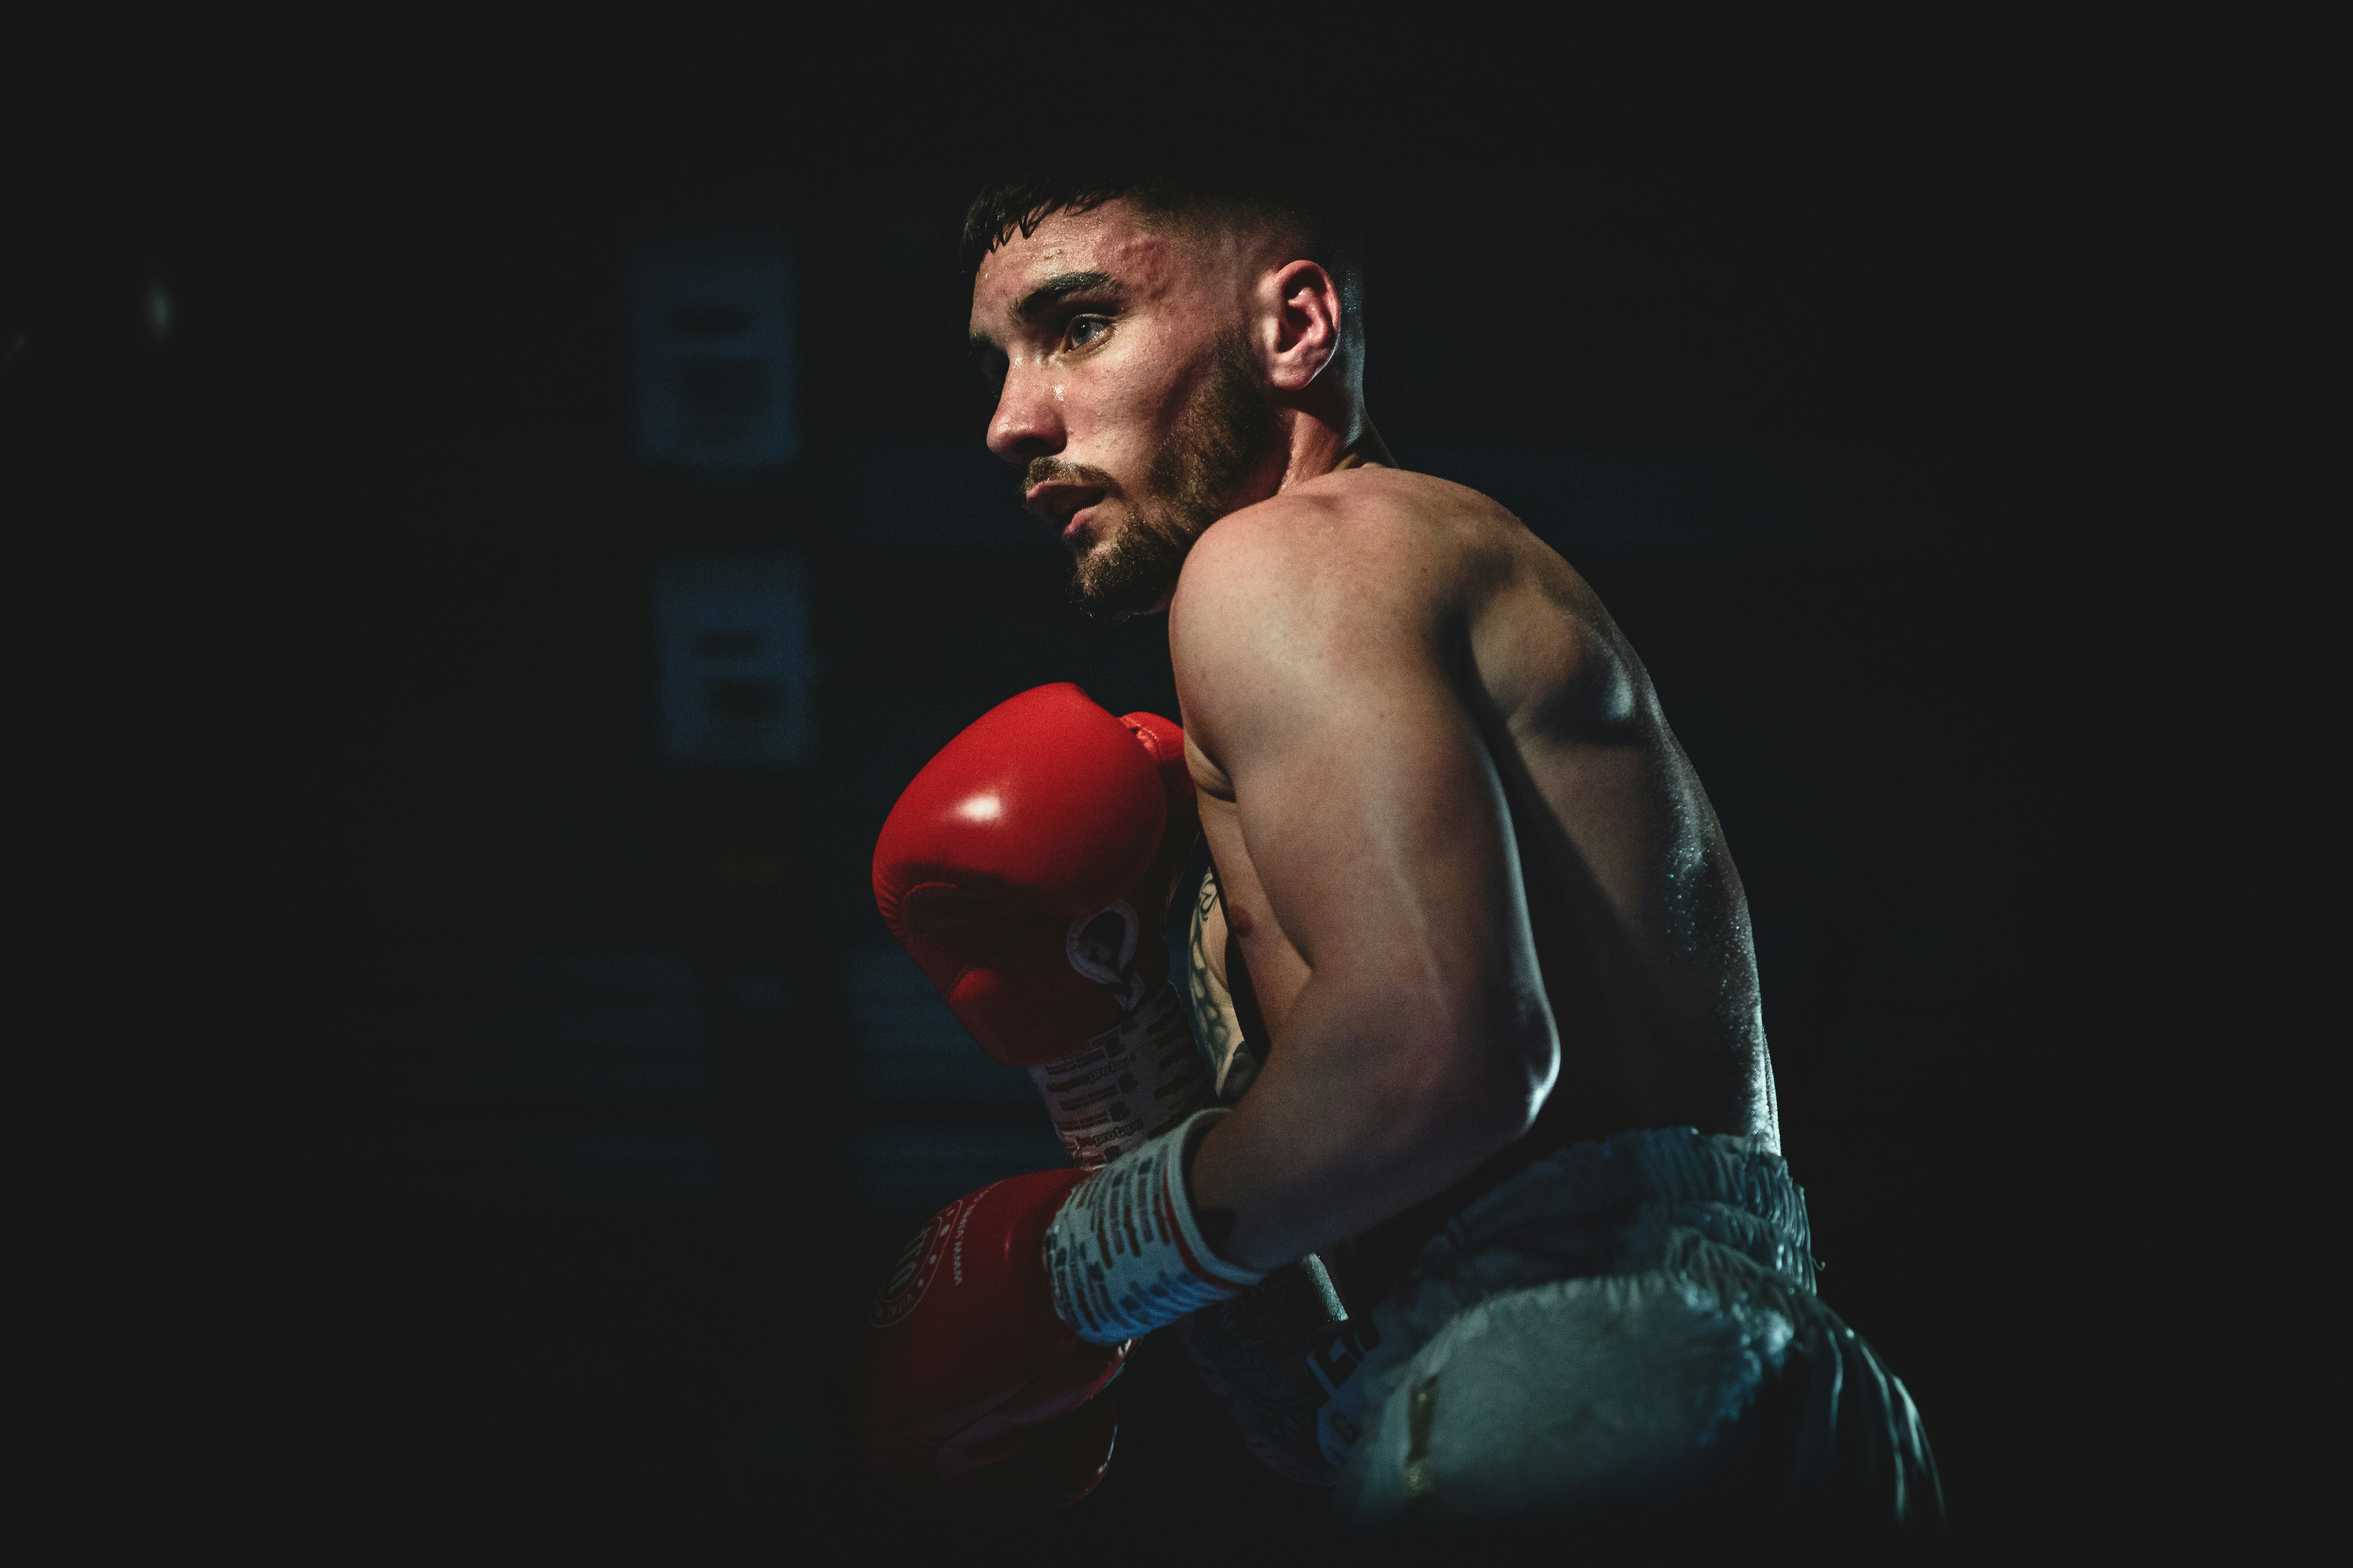
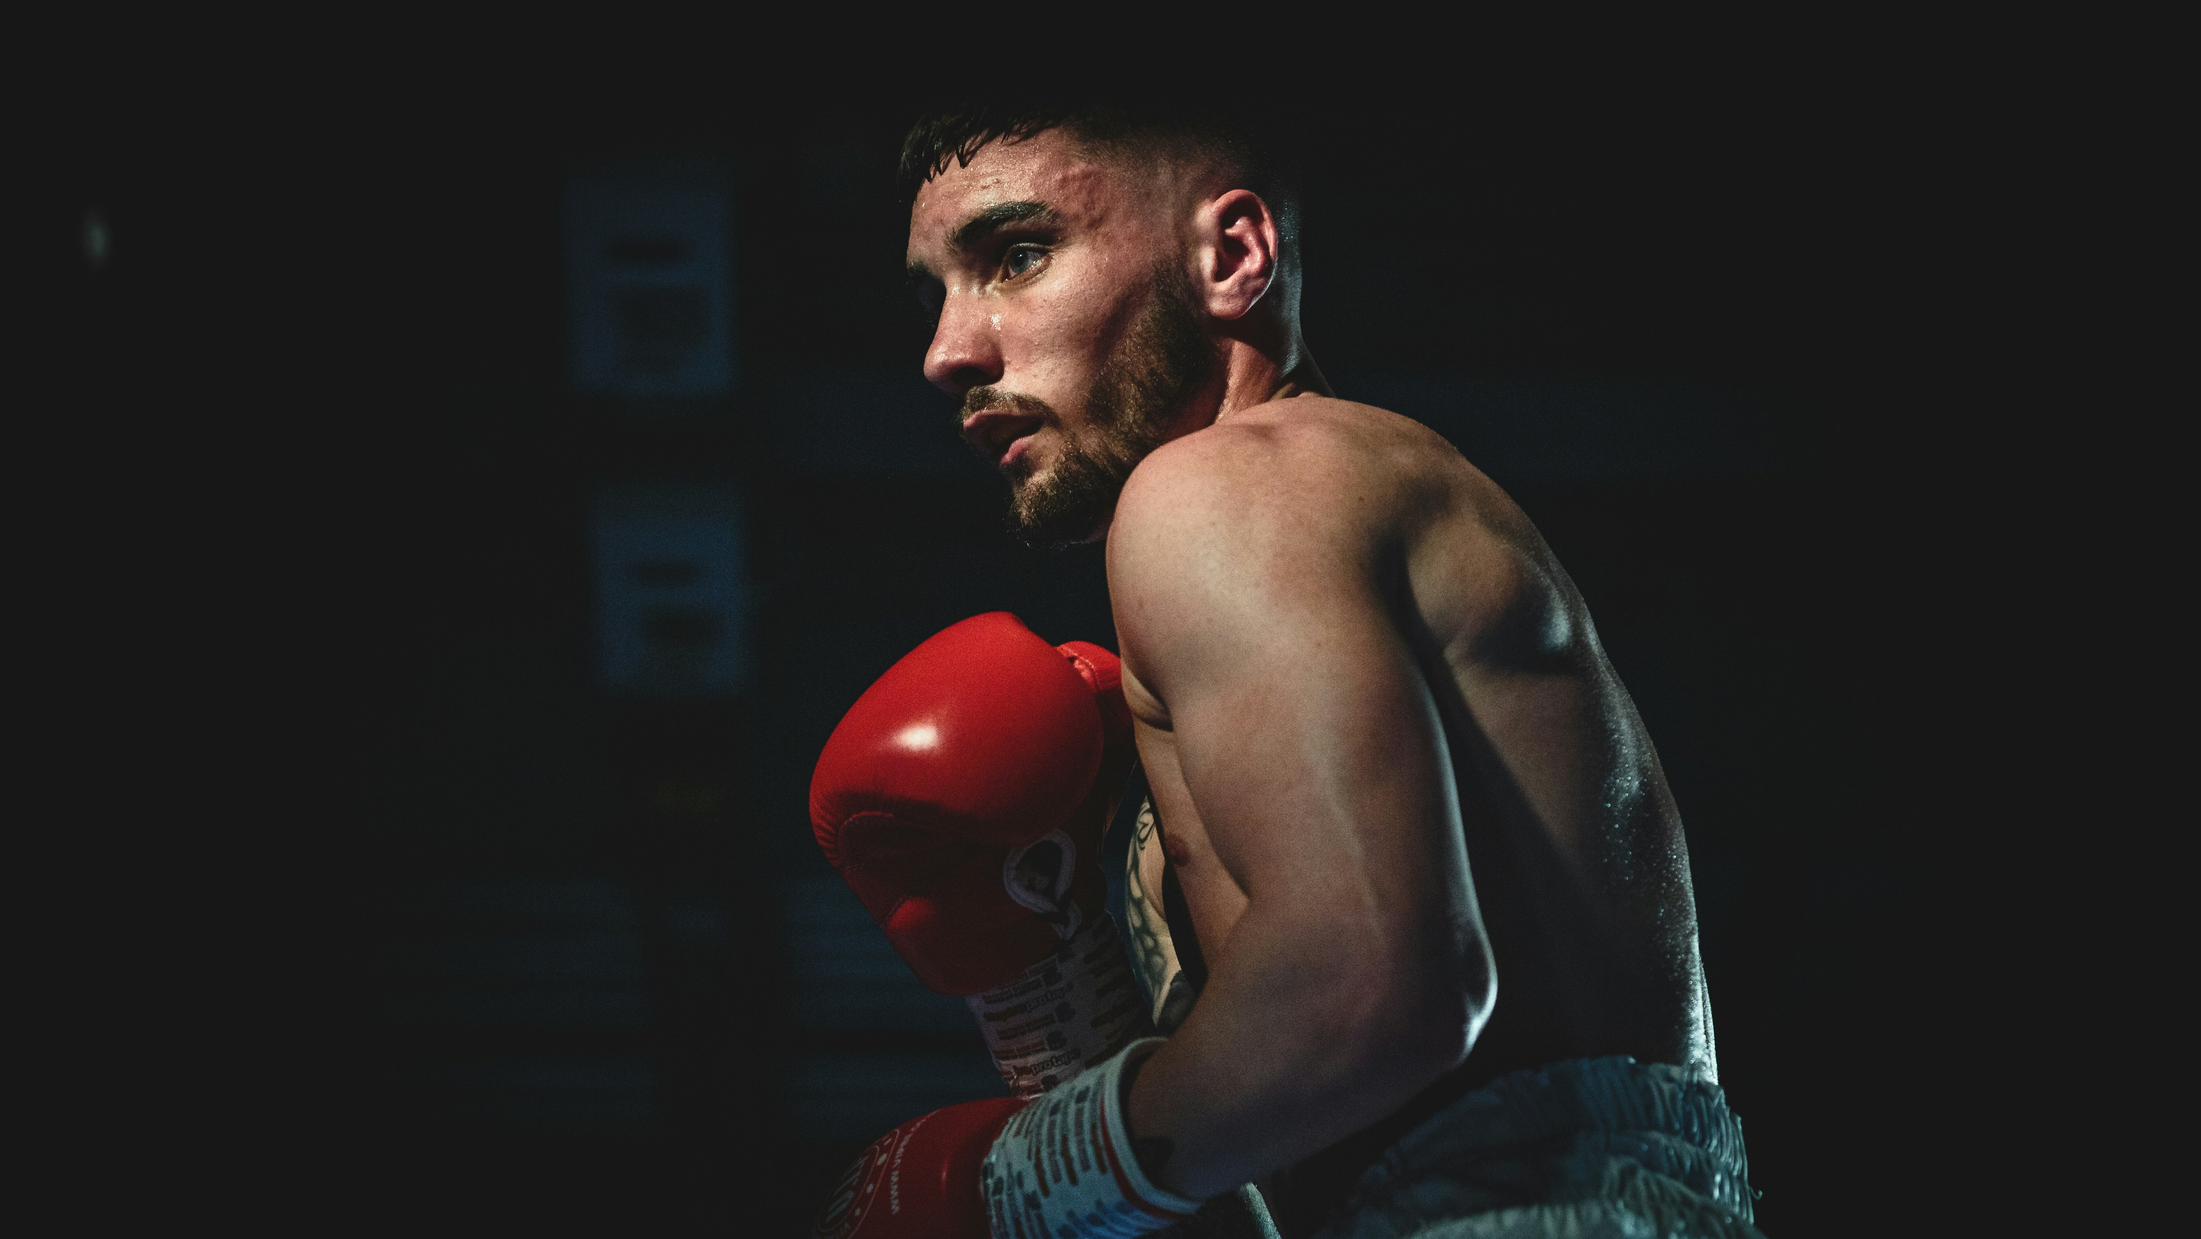
Update header

Changed region(s): [[0.343, 0.0929, 0.8419, 1.0]]

diff --git a/src/App.css b/src/App.css
@@ -15,12 +15,9 @@ a {
 /* header */
 .header {
   width: 100%;
-  height: 100vh;
-  /* background: url('./img/header/header-picture.jpg') no-repeat center/cover; */
-  background-image: url('./img/header/header-picture.jpg');
-  background-repeat: no-repeat;
-  background-size: auto 100%;
-  background-position: center;
+  height: 85vh;
+  background: url('./img/header/header-picture.jpg') no-repeat top/cover;
+  background-position: center top;
 }
 
 /* menu */
@@ -34,6 +31,8 @@ a {
 
 .h-nav-menu ul {
   display: flex;
+  justify-content: center;
+  align-items: center;
   gap: 1rem;
   text-transform: uppercase;
   font-size: 0.8rem;
@@ -46,6 +45,12 @@ a {
   color: #FFFFFF;
 }
 
+.h-nav-cta {
+  padding: 1rem;
+  border-radius: 5px;
+  outline: 2px solid rgba(255, 255, 255, 0.5);
+}
+
 .h-nav-icon {
   font-size: 1.5rem;
   font-weight: bold;
@@ -56,3 +61,38 @@ a {
   color: #EA0000;
 }
 
+.h-message {
+  margin: 0 4rem;
+  color: #FFFFFF;
+}
+
+.h-message-text {
+  font-size: 5rem;
+  font-weight: bold;
+  text-transform: uppercase;
+  letter-spacing: -3px;
+  line-height: 5rem;
+}
+
+.h-message-text span {
+  color: #EA0000;
+}
+
+.h-message-cta {
+  display: flex;
+  flex-flow: column wrap;
+  justify-content: flex-start;
+  gap: 1rem;
+}
+
+.h-message-button {
+  width: 7%;
+  padding: 1rem;
+  border: none;
+  border-radius: 10px;
+  font-size: 0.8rem;
+  font-weight: bold;
+  text-transform: uppercase;
+  color: #FFFFFF;
+  background-color: #EA0000;
+}

diff --git a/src/components/header_components/HeaderMessage.jsx b/src/components/header_components/HeaderMessage.jsx
@@ -1,0 +1,19 @@
+const HeaderMessage = () => {
+  return(
+    <div className='h-message'>
+      <div className="h-message-text">
+        <p>
+          Learn Boxing <br />
+          Fight like <br />
+          <span>Champions</span>
+        </p>
+      </div>
+      <div className="h-message-cta">
+        <button className="h-message-button">Free Trial</button>
+        <span>Starting at $ 19.99</span>
+      </div>
+    </div>
+  )
+};
+
+export default HeaderMessage;

diff --git a/src/components/header_components/HeaderMenu.jsx b/src/components/header_components/HeaderMenu.jsx
@@ -11,7 +11,7 @@ const HeaderMenu = () => {
             <li><a href="#">Location</a></li>
             <li><a href="#">Membership</a></li>
             <li><a href="#">Blog</a></li>
-            <li><a href="#">Contact Us</a></li>
+            <li className='h-nav-cta'><a href="#">Contact Us</a></li>
           </ul>
         </nav>
       </div>

diff --git a/src/components/header_components/Header.jsx b/src/components/header_components/Header.jsx
@@ -1,9 +1,11 @@
 import HeaderMenu from './HeaderMenu.jsx';
+import HeaderMessage from './HeaderMessage.jsx';
 
 const Header = () => {
   return(
     <header className='header'>
       <HeaderMenu />
+      <HeaderMessage />
     </header>
   )
 };
